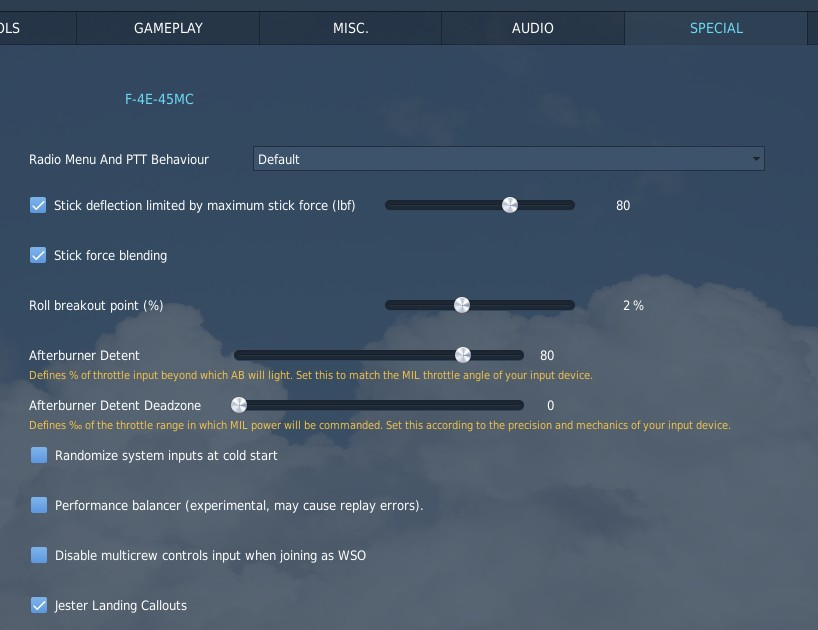
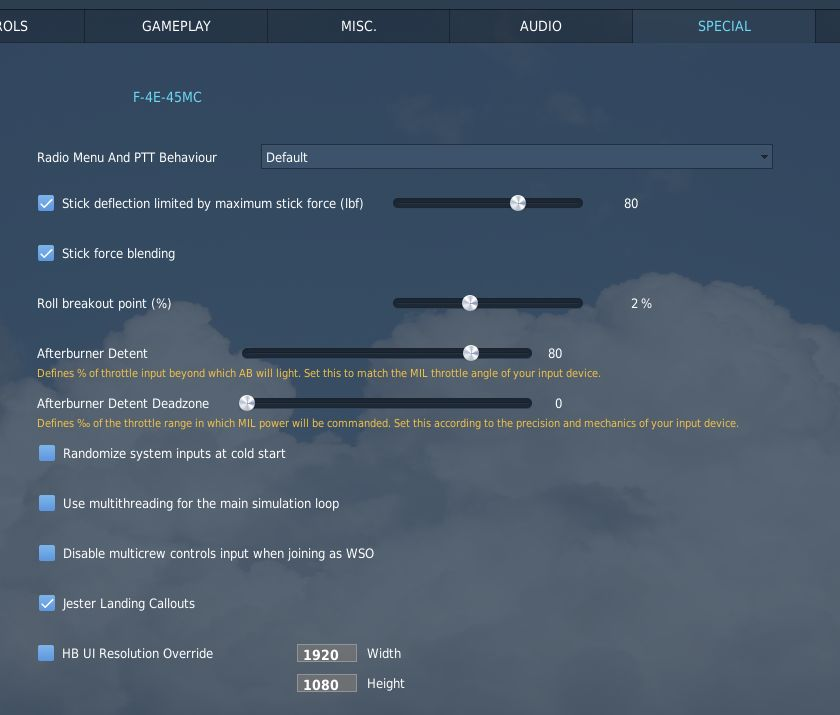
HB UI Resolution Override special options

diff --git a/src/dcs/special_options.md b/src/dcs/special_options.md
@@ -43,12 +43,11 @@ Gs.
 
 ## Roll Breakout Point
 
-Percentage of stick input after which the AFCS system will recognize
-the pilot stick was moved from neutral trim position
-(force transducer switches closed). This
-will affect the AFCS roll channel operation and prevent it from
-fighting your roll input.
-For more info see [Force Transducer](../systems/flight_controls_gear/flight_controls.md#force-transducer).
+Percentage of stick input after which the AFCS system will recognize the pilot
+stick was moved from neutral trim position (force transducer switches closed).
+This will affect the AFCS roll channel operation and prevent it from fighting
+your roll input. For more info see
+[Force Transducer](../systems/flight_controls_gear/flight_controls.md#force-transducer).
 
 ## Afterburner Detent
 
@@ -74,19 +73,15 @@ previous pilot did not properly return everything back to their initial
 positions. To ensure a correct startup, the crew hence must check and confirm
 each switch in the proper position before following a cold-start procedure.
 
-## Performance Balancer
+## Use Multithreading for Main Simulation
 
-Under normal conditions, the systems and components in the aircraft are
-simulated with a fixed update-rate.
+With this option checked, the main simulation of the aircraft and its components
+is computed in parallel by utilizing multiple threads.
 
-With this option checked, the update rate of some less important systems (such
-as animations) is scaled dynamically based on the current CPU usage. This means
-that if the system has a hard time keeping high FPS, the rate on which less
-important systems are simulated is dynamically tuned down to stress the CPU less
-and possibly achieve higher FPS.
+This can significantly improve performance if bound by the CPU.
 
-> 🟡 CAUTION: Due to dynamic nature of this system, having it enabled might result in
-> broken track/replay files.
+> 🟡 CAUTION: The feature is experimental. Simulation stability and correctness
+> can suffer.
 
 ## Disable Multicrew Controls Input When Joining as WSO
 
@@ -100,3 +95,18 @@ If enabled, Jester will assist the pilot during landing by calling out aircraft
 altitude, similar as seen in civilian aviation.
 
 > 💡 Real Phantom WSOs did not assist during landing.
+
+## HB UI Resolution Override
+
+User interface elements, such as the Jester Wheel, the manual, virtual browser
+and others are scaled and positioned via a fixed resolution that must match the
+resolution of the in-game surface they are rendered on.
+
+With the option unchecked, this resolution is automatically determined based on
+screen settings. However, in certain situations, especially when using VR or
+having a multi-monitor setup, this automatic detection might fail and compute an
+incorrect resolution.
+
+Should UI elements be misplaced, for example the Jester Wheel not being centered
+or even cut off, check this setting and edit the resolution manually until the
+UI is displayed properly.
